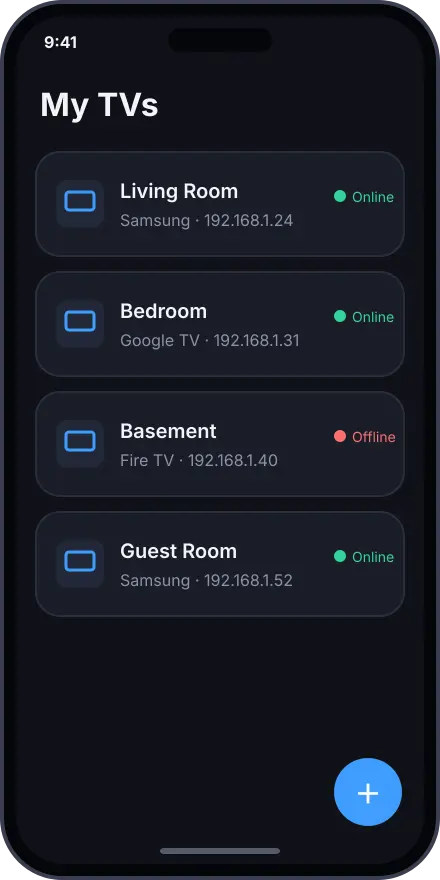
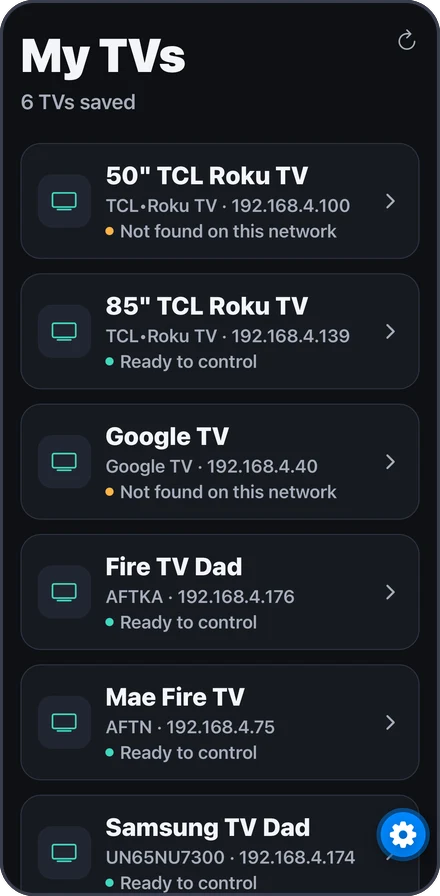
Replace Beam mockups with real app screenshots and update copy
Claude-Session: https://claude.ai/code/session_0168yM6oaQurU6rt3Mza7XbF

diff --git a/index.html b/index.html
@@ -78,7 +78,7 @@
   <div class="wrap">
     <div class="kicker">Selected work</div>
     <h2>Apps I am building</h2>
-    <p class="sub">A look at recent projects. The screens below are design mockups that use sample names, not real customer data.</p>
+    <p class="sub">A look at recent projects. The REPS Gym screens are design mockups that use sample names, not real customer data. The Beam screens come from the running app.</p>
 
     <!-- REPS -->
     <article class="app">
@@ -121,21 +121,22 @@
             <span class="status">Early prototype</span>
           </div>
         </div>
-        <p>One phone remote for every TV in the house. Beam finds the TVs on your Wi-Fi and controls Samsung, Google TV and Fire TV sets from a single app, so you stop hunting for the right remote.</p>
+        <p>One phone remote for every TV in the house. Beam finds the TVs on your Wi-Fi and controls Roku, Samsung, Google TV and Fire TV sets from a single app, so you stop hunting for the right remote.</p>
         <ul class="ticks">
-          <li>Saved TV list with live online / offline status for each set</li>
-          <li>Add a TV by scanning your network, with first-time pairing handled in the app</li>
-          <li>Full remote screen: navigation, home, back, volume and power</li>
-          <li>Power on with Wake-on-LAN for supported Samsung TVs</li>
-          <li>Shared TV list, so every phone on the Wi-Fi sees the same TVs and names</li>
+          <li>Works with Roku, Samsung (including older models), Google TV and Fire TV</li>
+          <li>Saved TV list with a live status for each set, such as "Ready to control"</li>
+          <li>Scans your Wi-Fi to find TVs, or add one by typing its address</li>
+          <li>Rename your TVs and keep one shared list across every phone in the house</li>
+          <li>Pairing and setup tips right on the screen for each TV brand</li>
         </ul>
-        <p class="note">Beam is a work in progress, and these screens are design mockups with sample TV names. Some TV models and features are still being tested, and it is not yet in the app stores.</p>
+        <p class="note">Beam is an early prototype, still being tested on more TV models. It is not in the app stores yet.</p>
         <div class="tags"><span class="tag">React Native</span><span class="tag">Expo</span><span class="tag">TypeScript</span><span class="tag">Node.js bridge</span><span class="tag">Wi-Fi device control</span><span class="tag">iOS &amp; Android</span></div>
       </div>
       <div class="shots" aria-label="Beam app screens">
-        <img src="assets/beam-devices.webp" alt="Beam My TVs screen listing four TVs with online and offline status" loading="lazy" width="220" height="440">
-        <img src="assets/beam-add.webp" alt="Beam Add a TV screen showing TVs found on the Wi-Fi network" loading="lazy" width="220" height="440">
-        <img src="assets/beam-remote.webp" alt="Beam remote screen with directional pad, volume and power" loading="lazy" width="220" height="440">
+        <img src="assets/beam-devices.webp" alt="Beam My TVs screen listing saved TVs with their status" loading="lazy" width="220" height="448">
+        <img src="assets/beam-add-roku.webp" alt="Beam Add a TV screen after scanning for Roku TVs" loading="lazy" width="220" height="448">
+        <img src="assets/beam-add-samsung.webp" alt="Beam Add a TV screen listing Samsung TVs found on the network" loading="lazy" width="220" height="448">
+        <img src="assets/beam-add-firetv.webp" alt="Beam Add a TV screen listing Fire TVs found on the network" loading="lazy" width="220" height="448">
       </div>
     </article>
 
